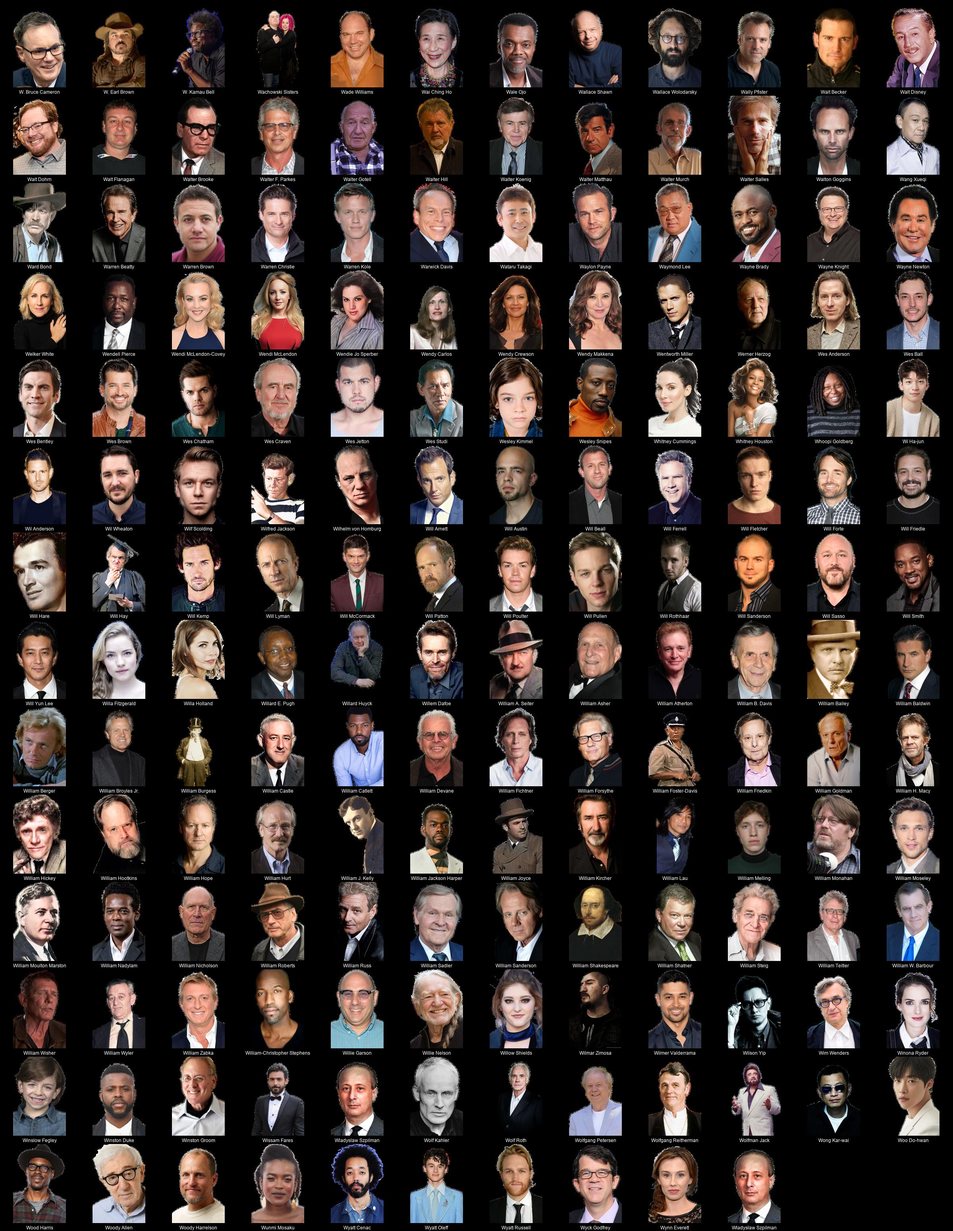
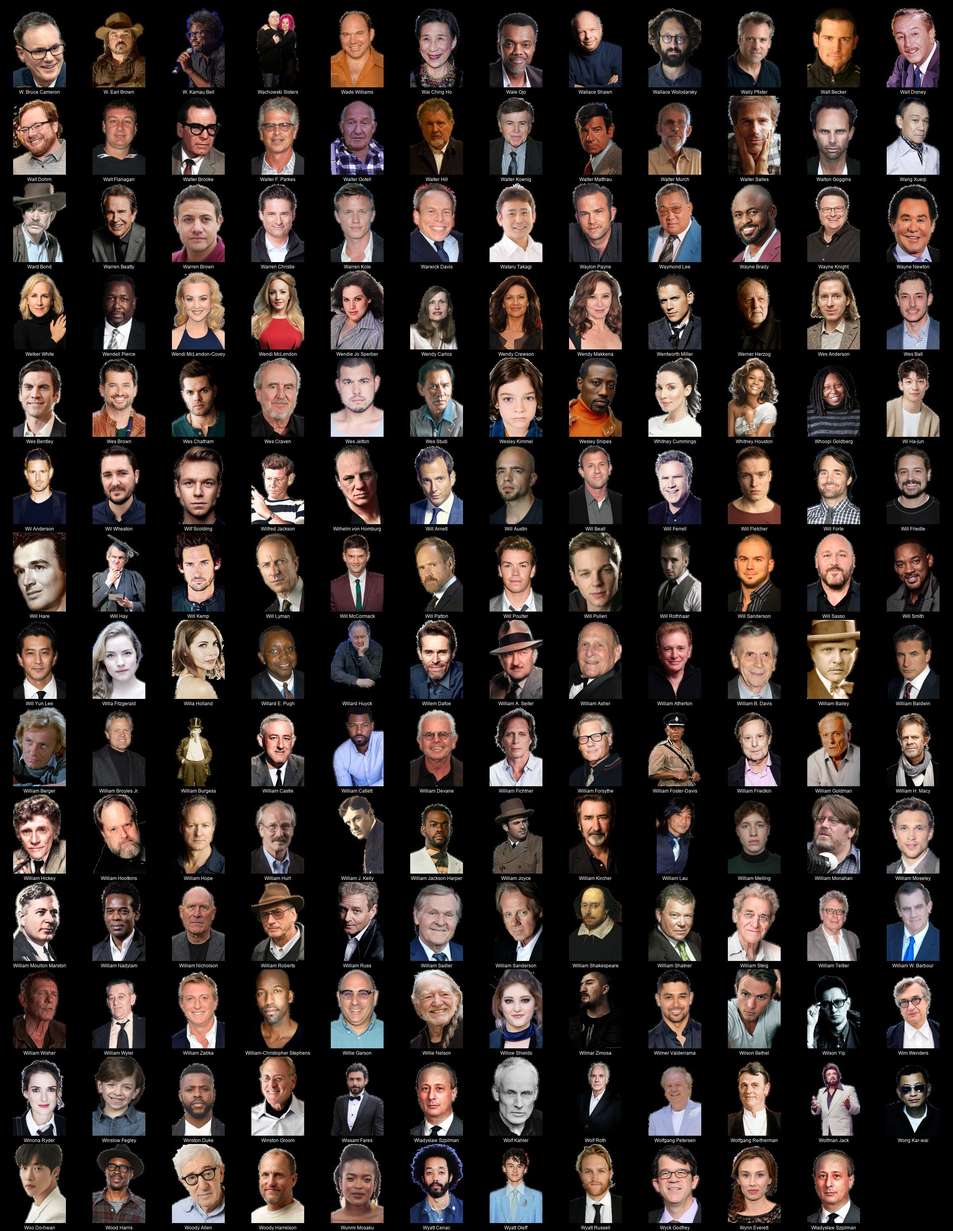
more people

Changed region(s): [[0.0, 0.7742, 0.9062, 1.0], [0.9375, 0.7742, 1.0, 0.929]]

diff --git a/README.md b/README.md
@@ -1,4 +1,4 @@
-# Kometa People Images - Transparent (transparent) (9312 Images)
+# Kometa People Images - Transparent (transparent) (9316 Images)
 
 <details><summary><a href="'">' (1 Images)</a></summary>
 
@@ -3629,7 +3629,7 @@
 * [Izaac Wang](https://raw.githubusercontent.com/Kometa-Team/People-Images-transparent/master/I/Images/Izaac%20Wang.png)
 * [Izabella Scorupco](https://raw.githubusercontent.com/Kometa-Team/People-Images-transparent/master/I/Images/Izabella%20Scorupco.png)
 </details>
-<details><summary><a href="J">J (1150 Images)</a></summary>
+<details><summary><a href="J">J (1151 Images)</a></summary>
 
 * [J'Dvonte](https://raw.githubusercontent.com/Kometa-Team/People-Images-transparent/master/J/Images/J%27Dvonte.png)
 * [J. A. Bayona](https://raw.githubusercontent.com/Kometa-Team/People-Images-transparent/master/J/Images/J.%20A.%20Bayona.png)
@@ -4469,6 +4469,7 @@
 * [John Turturro](https://raw.githubusercontent.com/Kometa-Team/People-Images-transparent/master/J/Images/John%20Turturro.png)
 * [John Ventimiglia](https://raw.githubusercontent.com/Kometa-Team/People-Images-transparent/master/J/Images/John%20Ventimiglia.png)
 * [John Waters](https://raw.githubusercontent.com/Kometa-Team/People-Images-transparent/master/J/Images/John%20Waters.png)
+* [John Waters2](https://raw.githubusercontent.com/Kometa-Team/People-Images-transparent/master/J/Images/John%20Waters2.png)
 * [John Wayne](https://raw.githubusercontent.com/Kometa-Team/People-Images-transparent/master/J/Images/John%20Wayne.png)
 * [John Williams](https://raw.githubusercontent.com/Kometa-Team/People-Images-transparent/master/J/Images/John%20Williams.png)
 * [John Wisniski Jr.](https://raw.githubusercontent.com/Kometa-Team/People-Images-transparent/master/J/Images/John%20Wisniski%20Jr..png)
@@ -5232,7 +5233,7 @@
 * [Kyra Sedgwick](https://raw.githubusercontent.com/Kometa-Team/People-Images-transparent/master/K/Images/Kyra%20Sedgwick.png)
 * [Kyung Soo-jin](https://raw.githubusercontent.com/Kometa-Team/People-Images-transparent/master/K/Images/Kyung%20Soo-jin.png)
 </details>
-<details><summary><a href="L">L (399 Images)</a></summary>
+<details><summary><a href="L">L (400 Images)</a></summary>
 
 * [L. Q. Jones](https://raw.githubusercontent.com/Kometa-Team/People-Images-transparent/master/L/Images/L.%20Q.%20Jones.png)
 * [LL Cool J](https://raw.githubusercontent.com/Kometa-Team/People-Images-transparent/master/L/Images/LL%20Cool%20J.png)
@@ -5347,6 +5348,7 @@
 * [Lee Jang-hoon](https://raw.githubusercontent.com/Kometa-Team/People-Images-transparent/master/L/Images/Lee%20Jang-hoon.png)
 * [Lee Ji-ha](https://raw.githubusercontent.com/Kometa-Team/People-Images-transparent/master/L/Images/Lee%20Ji-ha.png)
 * [Lee Jong-suk](https://raw.githubusercontent.com/Kometa-Team/People-Images-transparent/master/L/Images/Lee%20Jong-suk.png)
+* [Lee Jung-eun](https://raw.githubusercontent.com/Kometa-Team/People-Images-transparent/master/L/Images/Lee%20Jung-eun.png)
 * [Lee Jung-jae](https://raw.githubusercontent.com/Kometa-Team/People-Images-transparent/master/L/Images/Lee%20Jung-jae.png)
 * [Lee Latchford](https://raw.githubusercontent.com/Kometa-Team/People-Images-transparent/master/L/Images/Lee%20Latchford.png)
 * [Lee Mack](https://raw.githubusercontent.com/Kometa-Team/People-Images-transparent/master/L/Images/Lee%20Mack.png)
@@ -9084,7 +9086,7 @@
 * [Von Lewis](https://raw.githubusercontent.com/Kometa-Team/People-Images-transparent/master/V/Images/Von%20Lewis.png)
 * [Věra Chytilová](https://raw.githubusercontent.com/Kometa-Team/People-Images-transparent/master/V/Images/V%C4%9Bra%20Chytilov%C3%A1.png)
 </details>
-<details><summary><a href="W">W (166 Images)</a></summary>
+<details><summary><a href="W">W (167 Images)</a></summary>
 
 * [W. Bruce Cameron](https://raw.githubusercontent.com/Kometa-Team/People-Images-transparent/master/W/Images/W.%20Bruce%20Cameron.png)
 * [W. Earl Brown](https://raw.githubusercontent.com/Kometa-Team/People-Images-transparent/master/W/Images/W.%20Earl%20Brown.png)
@@ -9227,6 +9229,7 @@
 * [Willow Shields](https://raw.githubusercontent.com/Kometa-Team/People-Images-transparent/master/W/Images/Willow%20Shields.png)
 * [Wilmar Zimosa](https://raw.githubusercontent.com/Kometa-Team/People-Images-transparent/master/W/Images/Wilmar%20Zimosa.png)
 * [Wilmer Valderrama](https://raw.githubusercontent.com/Kometa-Team/People-Images-transparent/master/W/Images/Wilmer%20Valderrama.png)
+* [Wilson Bethel](https://raw.githubusercontent.com/Kometa-Team/People-Images-transparent/master/W/Images/Wilson%20Bethel.png)
 * [Wilson Yip](https://raw.githubusercontent.com/Kometa-Team/People-Images-transparent/master/W/Images/Wilson%20Yip.png)
 * [Wim Wenders](https://raw.githubusercontent.com/Kometa-Team/People-Images-transparent/master/W/Images/Wim%20Wenders.png)
 * [Winona Ryder](https://raw.githubusercontent.com/Kometa-Team/People-Images-transparent/master/W/Images/Winona%20Ryder.png)
@@ -9261,7 +9264,7 @@
 * [Xochitl Gomez](https://raw.githubusercontent.com/Kometa-Team/People-Images-transparent/master/X/Images/Xochitl%20Gomez.png)
 * [Xolo Mariduena](https://raw.githubusercontent.com/Kometa-Team/People-Images-transparent/master/X/Images/Xolo%20Mariduena.png)
 </details>
-<details><summary><a href="Y">Y (67 Images)</a></summary>
+<details><summary><a href="Y">Y (68 Images)</a></summary>
 
 * [Y. Ravi Shankar](https://raw.githubusercontent.com/Kometa-Team/People-Images-transparent/master/Y/Images/Y.%20Ravi%20Shankar.png)
 * [Yahya Abdul-Mateen II](https://raw.githubusercontent.com/Kometa-Team/People-Images-transparent/master/Y/Images/Yahya%20Abdul-Mateen%20II.png)
@@ -9322,6 +9325,7 @@
 * [Yuri Kolokolnikov](https://raw.githubusercontent.com/Kometa-Team/People-Images-transparent/master/Y/Images/Yuri%20Kolokolnikov.png)
 * [Yuri Lowenthal](https://raw.githubusercontent.com/Kometa-Team/People-Images-transparent/master/Y/Images/Yuri%20Lowenthal.png)
 * [Yusuke Kobayashi](https://raw.githubusercontent.com/Kometa-Team/People-Images-transparent/master/Y/Images/Yusuke%20Kobayashi.png)
+* [Yuta Kobayashi](https://raw.githubusercontent.com/Kometa-Team/People-Images-transparent/master/Y/Images/Yuta%20Kobayashi.png)
 * [Yutaka Nakano](https://raw.githubusercontent.com/Kometa-Team/People-Images-transparent/master/Y/Images/Yutaka%20Nakano.png)
 * [Yuuichirou Umehara](https://raw.githubusercontent.com/Kometa-Team/People-Images-transparent/master/Y/Images/Yuuichirou%20Umehara.png)
 * [Yuya Yagira](https://raw.githubusercontent.com/Kometa-Team/People-Images-transparent/master/Y/Images/Yuya%20Yagira.png)

diff --git a/Y/README.md b/Y/README.md
@@ -1,4 +1,4 @@
-# Kometa People Images - Transparent (transparent) - Y (67 Images)
+# Kometa People Images - Transparent (transparent) - Y (68 Images)
 ![Grid](grid.jpg)
 
 * [Y. Ravi Shankar](https://raw.githubusercontent.com/Kometa-Team/People-Images-transparent/master/Y/Images/Y.%20Ravi%20Shankar.png)
@@ -60,6 +60,7 @@
 * [Yuri Kolokolnikov](https://raw.githubusercontent.com/Kometa-Team/People-Images-transparent/master/Y/Images/Yuri%20Kolokolnikov.png)
 * [Yuri Lowenthal](https://raw.githubusercontent.com/Kometa-Team/People-Images-transparent/master/Y/Images/Yuri%20Lowenthal.png)
 * [Yusuke Kobayashi](https://raw.githubusercontent.com/Kometa-Team/People-Images-transparent/master/Y/Images/Yusuke%20Kobayashi.png)
+* [Yuta Kobayashi](https://raw.githubusercontent.com/Kometa-Team/People-Images-transparent/master/Y/Images/Yuta%20Kobayashi.png)
 * [Yutaka Nakano](https://raw.githubusercontent.com/Kometa-Team/People-Images-transparent/master/Y/Images/Yutaka%20Nakano.png)
 * [Yuuichirou Umehara](https://raw.githubusercontent.com/Kometa-Team/People-Images-transparent/master/Y/Images/Yuuichirou%20Umehara.png)
 * [Yuya Yagira](https://raw.githubusercontent.com/Kometa-Team/People-Images-transparent/master/Y/Images/Yuya%20Yagira.png)

diff --git a/W/README.md b/W/README.md
@@ -1,4 +1,4 @@
-# Kometa People Images - Transparent (transparent) - W (166 Images)
+# Kometa People Images - Transparent (transparent) - W (167 Images)
 ![Grid](grid.jpg)
 
 * [W. Bruce Cameron](https://raw.githubusercontent.com/Kometa-Team/People-Images-transparent/master/W/Images/W.%20Bruce%20Cameron.png)
@@ -142,6 +142,7 @@
 * [Willow Shields](https://raw.githubusercontent.com/Kometa-Team/People-Images-transparent/master/W/Images/Willow%20Shields.png)
 * [Wilmar Zimosa](https://raw.githubusercontent.com/Kometa-Team/People-Images-transparent/master/W/Images/Wilmar%20Zimosa.png)
 * [Wilmer Valderrama](https://raw.githubusercontent.com/Kometa-Team/People-Images-transparent/master/W/Images/Wilmer%20Valderrama.png)
+* [Wilson Bethel](https://raw.githubusercontent.com/Kometa-Team/People-Images-transparent/master/W/Images/Wilson%20Bethel.png)
 * [Wilson Yip](https://raw.githubusercontent.com/Kometa-Team/People-Images-transparent/master/W/Images/Wilson%20Yip.png)
 * [Wim Wenders](https://raw.githubusercontent.com/Kometa-Team/People-Images-transparent/master/W/Images/Wim%20Wenders.png)
 * [Winona Ryder](https://raw.githubusercontent.com/Kometa-Team/People-Images-transparent/master/W/Images/Winona%20Ryder.png)

diff --git a/J/README.md b/J/README.md
@@ -1,4 +1,4 @@
-# Kometa People Images - Transparent (transparent) - J (1150 Images)
+# Kometa People Images - Transparent (transparent) - J (1151 Images)
 ![Grid](grid.jpg)
 
 * [J'Dvonte](https://raw.githubusercontent.com/Kometa-Team/People-Images-transparent/master/J/Images/J%27Dvonte.png)
@@ -839,6 +839,7 @@
 * [John Turturro](https://raw.githubusercontent.com/Kometa-Team/People-Images-transparent/master/J/Images/John%20Turturro.png)
 * [John Ventimiglia](https://raw.githubusercontent.com/Kometa-Team/People-Images-transparent/master/J/Images/John%20Ventimiglia.png)
 * [John Waters](https://raw.githubusercontent.com/Kometa-Team/People-Images-transparent/master/J/Images/John%20Waters.png)
+* [John Waters2](https://raw.githubusercontent.com/Kometa-Team/People-Images-transparent/master/J/Images/John%20Waters2.png)
 * [John Wayne](https://raw.githubusercontent.com/Kometa-Team/People-Images-transparent/master/J/Images/John%20Wayne.png)
 * [John Williams](https://raw.githubusercontent.com/Kometa-Team/People-Images-transparent/master/J/Images/John%20Williams.png)
 * [John Wisniski Jr.](https://raw.githubusercontent.com/Kometa-Team/People-Images-transparent/master/J/Images/John%20Wisniski%20Jr..png)

diff --git a/L/README.md b/L/README.md
@@ -1,4 +1,4 @@
-# Kometa People Images - Transparent (transparent) - L (399 Images)
+# Kometa People Images - Transparent (transparent) - L (400 Images)
 ![Grid](grid.jpg)
 
 * [L. Q. Jones](https://raw.githubusercontent.com/Kometa-Team/People-Images-transparent/master/L/Images/L.%20Q.%20Jones.png)
@@ -114,6 +114,7 @@
 * [Lee Jang-hoon](https://raw.githubusercontent.com/Kometa-Team/People-Images-transparent/master/L/Images/Lee%20Jang-hoon.png)
 * [Lee Ji-ha](https://raw.githubusercontent.com/Kometa-Team/People-Images-transparent/master/L/Images/Lee%20Ji-ha.png)
 * [Lee Jong-suk](https://raw.githubusercontent.com/Kometa-Team/People-Images-transparent/master/L/Images/Lee%20Jong-suk.png)
+* [Lee Jung-eun](https://raw.githubusercontent.com/Kometa-Team/People-Images-transparent/master/L/Images/Lee%20Jung-eun.png)
 * [Lee Jung-jae](https://raw.githubusercontent.com/Kometa-Team/People-Images-transparent/master/L/Images/Lee%20Jung-jae.png)
 * [Lee Latchford](https://raw.githubusercontent.com/Kometa-Team/People-Images-transparent/master/L/Images/Lee%20Latchford.png)
 * [Lee Mack](https://raw.githubusercontent.com/Kometa-Team/People-Images-transparent/master/L/Images/Lee%20Mack.png)
